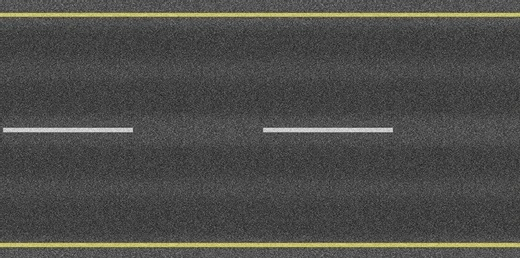
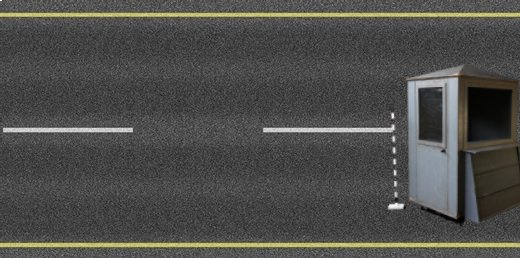
design

Changed region(s): [[0.7385, 0.2481, 1.0, 0.8682]]

diff --git a/public/data.js b/public/data.js
@@ -159,8 +159,8 @@ function initializeAnimation() {
         const imageHeight = 100;
         let y = (canvas.height - imageHeight) / 2;
         const speedX = 3;
-        const stopX = (canvas.width - imageWidth) / 2;
-        const endX = canvas.width;
+        const stopX = (canvas.width - imageWidth) / 8;
+        const endX = canvas.width * 0.75;
         const imageObject = new ImageObject(-imageWidth, y, imageWidth, imageHeight, carImgSource, speedX, stopX, endX);
         console.log(`Animációhoz használt autó kép forrása: ${carImgSource}`);
         animate(imageObject);

diff --git a/src/data.ts b/src/data.ts
@@ -428,8 +428,8 @@ async function initializeAnimation() {
     const imageHeight = 100;
     let y = (canvas.height - imageHeight) / 2;
     const speedX = 3;
-    const stopX = (canvas.width - imageWidth) / 2;
-    const endX = canvas.width;
+    const stopX = (canvas.width - imageWidth) / 8;
+    const endX = canvas.width * 0.75;
     const imageObject = new ImageObject(-imageWidth, y, imageWidth, imageHeight, carImgSource, speedX, stopX, endX);
 
     console.log(`Animációhoz használt autó kép forrása: ${carImgSource}`);

diff --git a/codes/style.css b/codes/style.css
@@ -6,6 +6,9 @@ body {
 canvas {
     display: block;
     margin-bottom: 5%;
+    margin-left: -3%;
+
+
 }
 
 .row{
